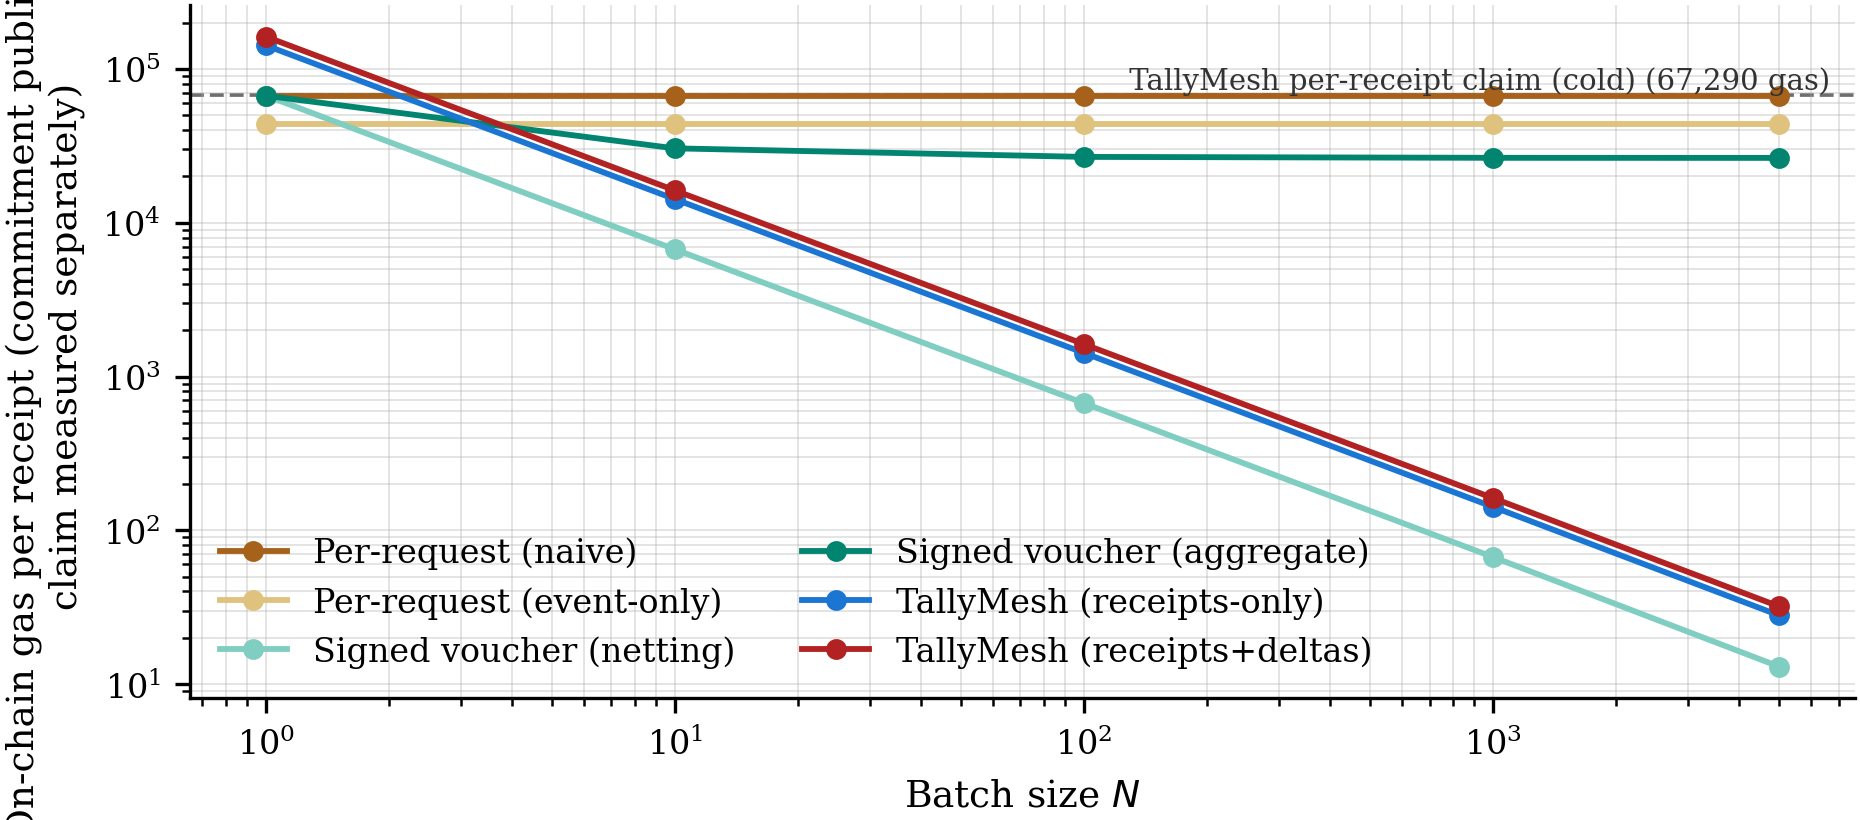
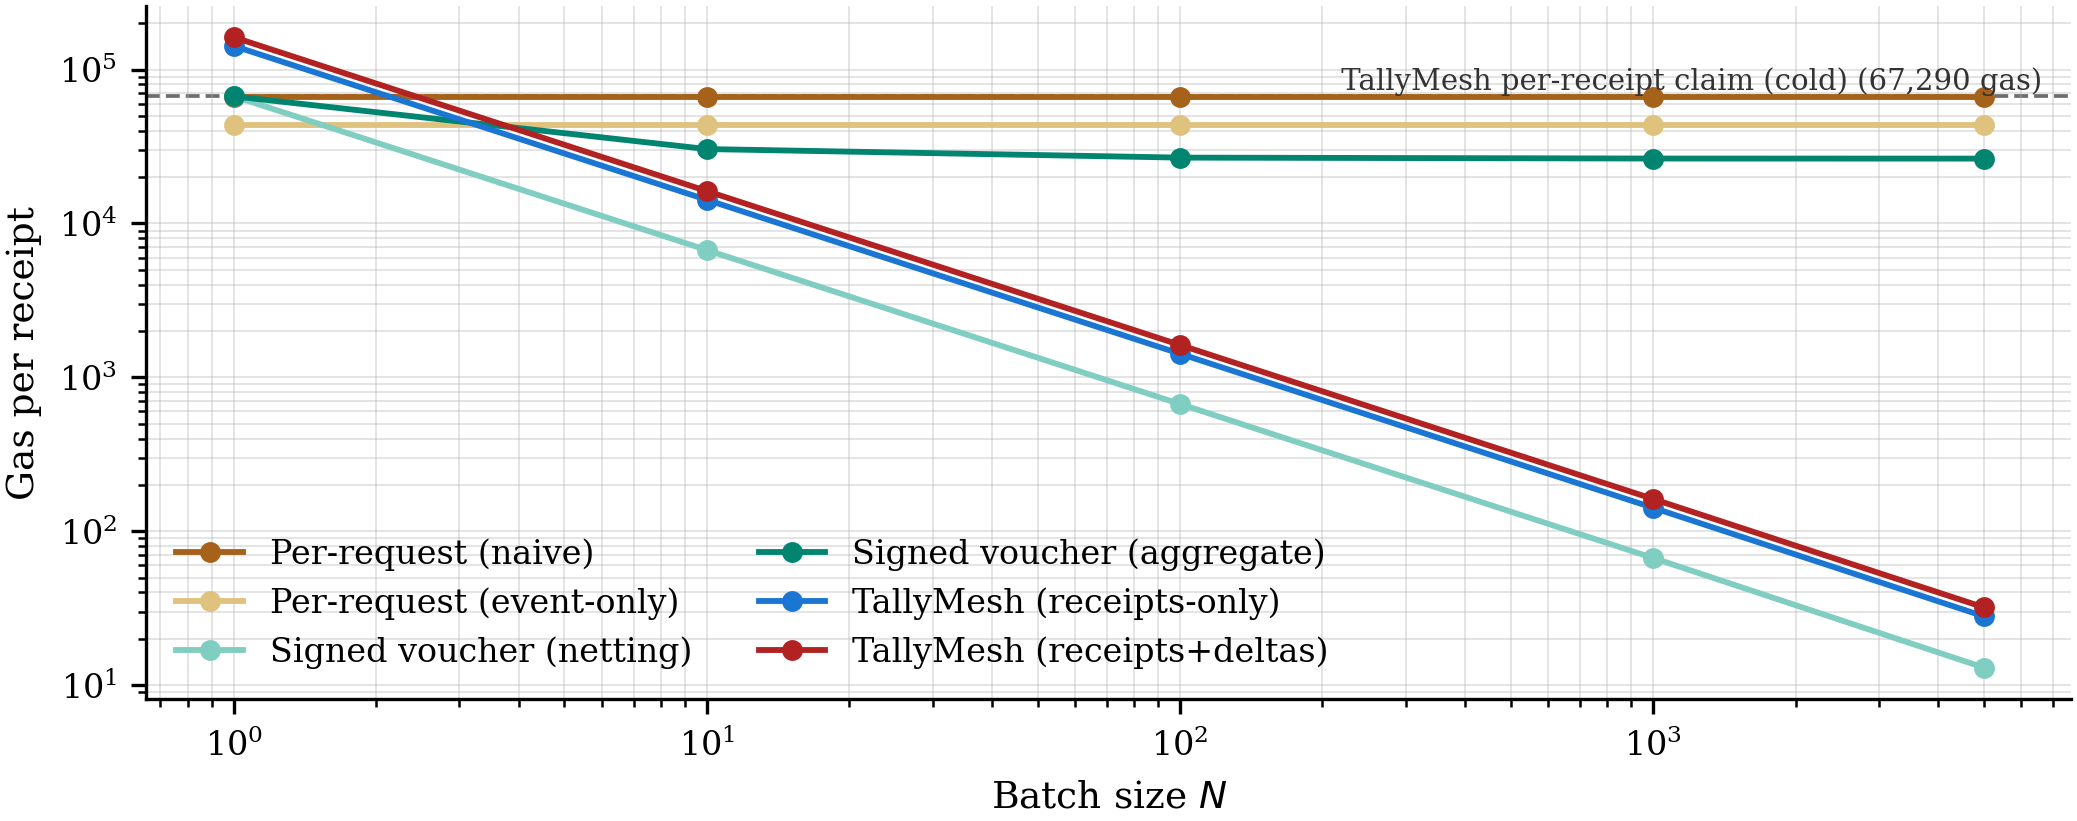
fix(tallymesh/paper): Fig.2 y-axis label was truncated — shorten + tight_layout
The previous y-axis label 'Gas per receipt (commitment publication)' overflowed the bbox=tight crop and rendered as 'Gas per receipt (commitment publicatio' in the compiled PDF. Shortened to 'Gas per receipt' (caption already says 'commitment publication') and added fig.tight_layout() as a margin safety net.

diff --git a/contracts/eval/plots/fig2_gas_per_call.py b/contracts/eval/plots/fig2_gas_per_call.py
@@ -76,10 +76,11 @@ def main() -> None:
     )
 
     ax.set_xlabel("Batch size $N$")
-    ax.set_ylabel("On-chain gas per receipt (commitment publication;\n claim measured separately)")
+    ax.set_ylabel("Gas per receipt")
     ax.set_title("")
     ax.grid(True, which="both", linewidth=0.4, alpha=0.4)
     ax.legend(loc="lower left", frameon=False, ncols=2)
+    fig.tight_layout()
     OUT.parent.mkdir(parents=True, exist_ok=True)
     save(fig, str(OUT))
 
